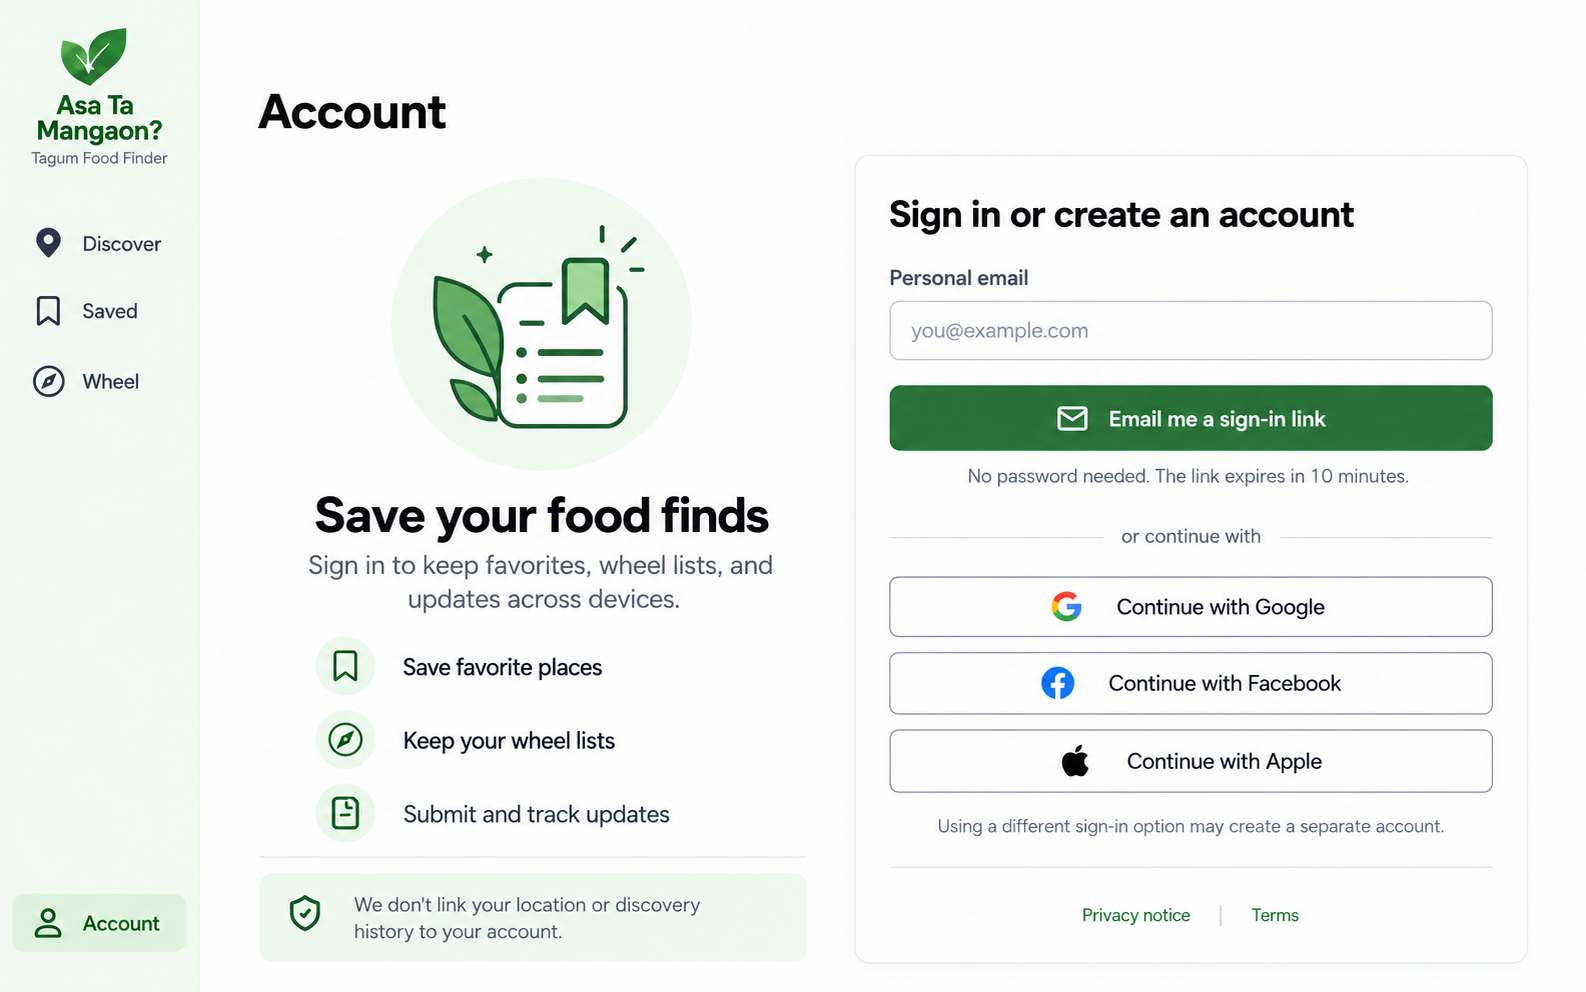
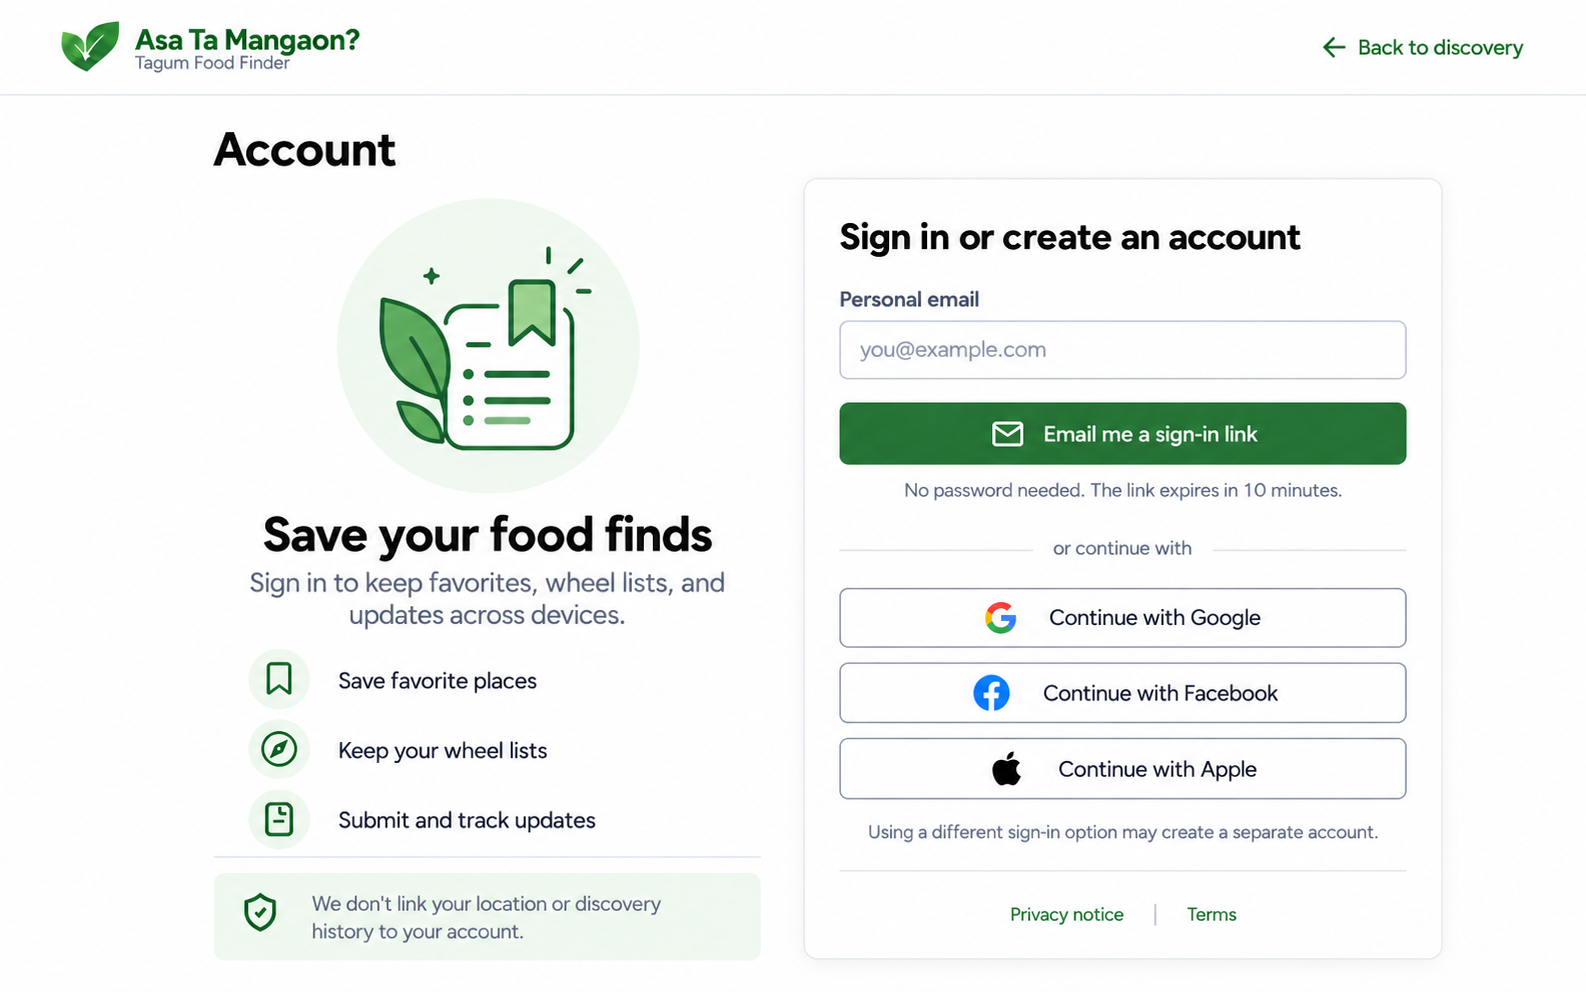
docs: refine desktop account mockup

diff --git a/.vault/sessions/2026-10-14.md b/.vault/sessions/2026-10-14.md
@@ -2,5 +2,5 @@
 
 - Start time: 2026-10-14
 - Goal: Complete the OSM candidate-quality decision and begin the approved Stage 0C discovery experience prototype.
-- Progress: Added deterministic OSM audit selection, corrected the deduplicated in-boundary inventory to 176 candidates, approved the baseline for MVP implementation, and recorded source rights and the staging-import contract. Implemented and verified the responsive Discovery and Place Profile prototypes in the owner-approved light visual system. Created and received approval for the anonymous Wheel mockups, then implemented the responsive Wheel with device-local persistence, manual entry, accessible reordering and removal, equal-probability cryptographic selection, bounded and reduced-motion outcomes, directions, and Place Profile handoff. Created mobile and desktop Account sign-in mockups in the approved light visual system, with magic-link authentication, equal social-provider treatment, and privacy-safe account messaging. Lint, formatting, type checks, 92 tests, production build, and responsive browser QA pass. The dependency audit still reports ten known issues in the existing vinext compatibility chain; no forced downgrade was applied.
+- Progress: Added deterministic OSM audit selection, corrected the deduplicated in-boundary inventory to 176 candidates, approved the baseline for MVP implementation, and recorded source rights and the staging-import contract. Implemented and verified the responsive Discovery and Place Profile prototypes in the owner-approved light visual system. Created and received approval for the anonymous Wheel mockups, then implemented the responsive Wheel with device-local persistence, manual entry, accessible reordering and removal, equal-probability cryptographic selection, bounded and reduced-motion outcomes, directions, and Place Profile handoff. Created mobile and desktop Account sign-in mockups in the approved light visual system, with magic-link authentication, equal social-provider treatment, and privacy-safe account messaging. Revised the desktop Account concept to use a compact brand header instead of the persistent application sidebar. Lint, formatting, type checks, 92 tests, production build, and responsive browser QA pass. The dependency audit still reports ten known issues in the existing vinext compatibility chain; no forced downgrade was applied.
 - Next: Obtain owner approval or revisions for the Account sign-in mockups before implementing any Account UI.

diff --git a/docs/mockups/account-sign-in-page.md b/docs/mockups/account-sign-in-page.md
@@ -24,6 +24,7 @@ This screen is a focused, trust-first entry point for a broad audience that may 
 - State that location and discovery history are not linked to the account.
 - Keep privacy and terms links available without letting legal copy overwhelm the main task.
 - Return the user to their original safe context after successful authentication.
+- On desktop, use a compact brand header with a back-to-discovery link instead of the application's persistent sidebar. Authentication is a focused entry surface, not an internal app workspace.
 
 ## Planned implementation states
 
